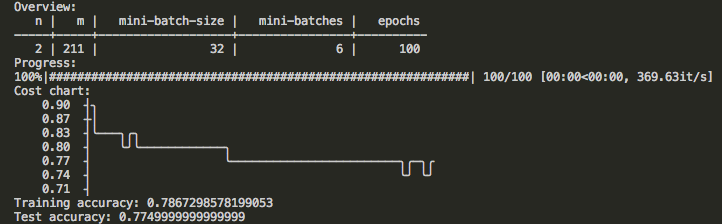
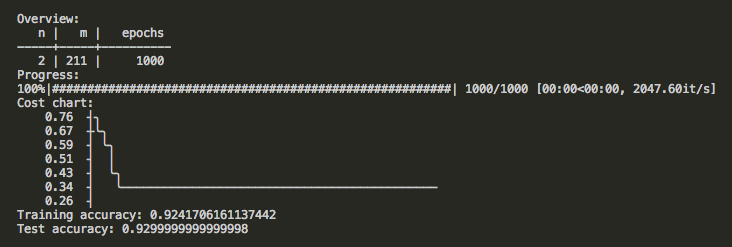
Update console output image

Changed region(s): [[0.0, 0.0, 1.0, 1.0]]

diff --git a/main.py b/main.py
@@ -11,9 +11,8 @@ train_X, train_Y, test_X, test_Y = load_2D_dataset()
 
 # Define hypyerparameters
 hyperparams = {
-    'learning_rate': lambda epoch: 1 / (1 + 0.8 * epoch) * 0.3,
-    'num_epochs': 100,
-    'mini_batch_size': 32,
+    'learning_rate': 0.3,
+    'num_epochs': 1000,
     'layer_dims': [20, 3, 1],
     'activations': ['relu', 'relu', 'sigmoid'],
     'regularizer': L2(0.5)
@@ -27,6 +26,7 @@ dnn = DeepNN(**hyperparams)
 #gradient_check.run(train_X, train_Y)
 
 # Train the model
+print()
 costs = dnn.train(train_X, train_Y)
 
 # Check the performance
@@ -34,3 +34,4 @@ _, accuracy = dnn.predict(train_X, train_Y)
 print("Training accuracy:", accuracy)
 _, accuracy = dnn.predict(test_X, test_Y)
 print("Test accuracy:", accuracy)
+print()
